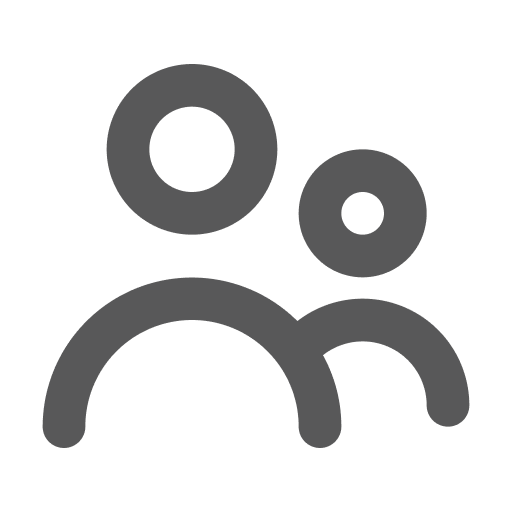
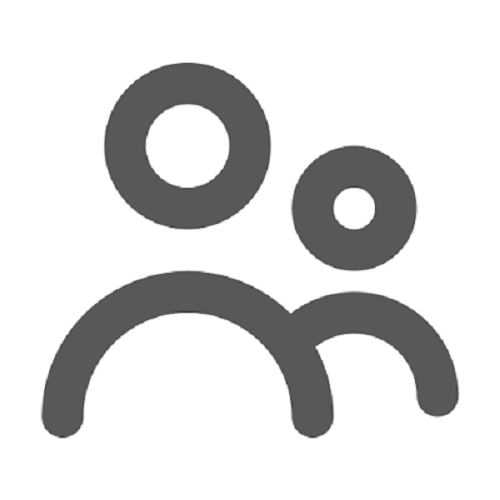
images

diff --git a/index.html b/index.html
@@ -112,7 +112,9 @@
         <button class="get-started">Buy Course</button>
         </div>
         <div class="bottom d-flex justify-content-between">
+            <img src="images/calendar.png" alt="">
             <h6 class="left">Start 20 April,2021</h6>
+            <img src="images/people.png" alt="">
             <h6 class="right">60 seats</h6>
         </div>
     </div>
@@ -124,7 +126,9 @@
         <button class="get-started">Buy Course</button>
         </div>
         <div class="bottom d-flex justify-content-between">
+            <img src="images/calendar.png" alt="">
             <h6 class="left">Start 20 April,2021</h6>
+            <img src="images/people.png" alt="">
             <h6 class="right">60 seats</h6>
             </div>
     </div>
@@ -136,7 +140,9 @@
         <button class="get-started">Buy Course</button>
         </div>
         <div class="bottom d-flex justify-content-between">
+            <img src="images/calendar.png" alt="">
             <h6 class="left">Start 20 April,2021</h6>
+            <img src="images/people.png" alt="">
             <h6 class="right">60 seats</h6>
         </div>
     </div>

diff --git a/style.css b/style.css
@@ -55,7 +55,7 @@ span{
 .card:hover{
     box-shadow: none;
     background: #fff;
-    transition: .5s;
+    transition: 1s;
 }
 .card img{
     width: 25%;
@@ -87,12 +87,22 @@ span{
 }
 .left{
     font-size: 14px;
-    margin-right: 50px;
+    margin-right: 60px;
+    margin-top: 50px;
 }
 .right{
     font-size: 14px;
-    margin-left: 30px;
+    padding: 50px 30px 10px 0px;
+    
 }
+.bottom img{
+    position: relative;
+    margin: 30px 0px 10px 0px;
+    width: 7%;
+    height: 50%;
+    padding-left: 7px;
+}
+
 /* Testimonial */
 .test{
     height: 400px;
